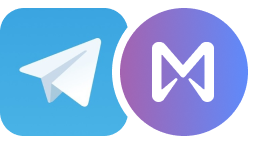
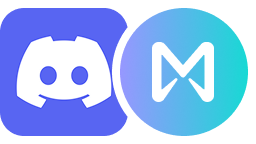
chore: change telegram to discord

diff --git a/src/module/faqs/component/feedback/SupportCard/SupportCard.tsx b/src/module/faqs/component/feedback/SupportCard/SupportCard.tsx
@@ -16,8 +16,8 @@ const SupportCard = (): JSX.Element => {
                 <Typography variant="body3Strong" textAlign="center">
                     {translate("supportCardText")}
                 </Typography>
-                <Button variant="primary" onPress={() => Linking.openURL(config.telegramUrl)}>
-                    {config.telegramUrl}
+                <Button variant="primary" onPress={() => Linking.openURL(config.discordUrl)}>
+                    {config.discordUrl}
                 </Button>
             </Col>
         </SupportCardRoot>

diff --git a/src/config/config.declarations.d.ts b/src/config/config.declarations.d.ts
@@ -95,7 +95,7 @@ declare module "@peersyst/react-native-components" {
         signerFeature: SignerFeatureConfig;
         analytics: AnalyticsConfig;
         enableManualImport: boolean;
-        telegramUrl: string;
+        discordUrl: string;
         apiRequestTimeout: number;
         fastMainnetNearApiUrl: string;
         expoUpdatesEnabled: boolean;
